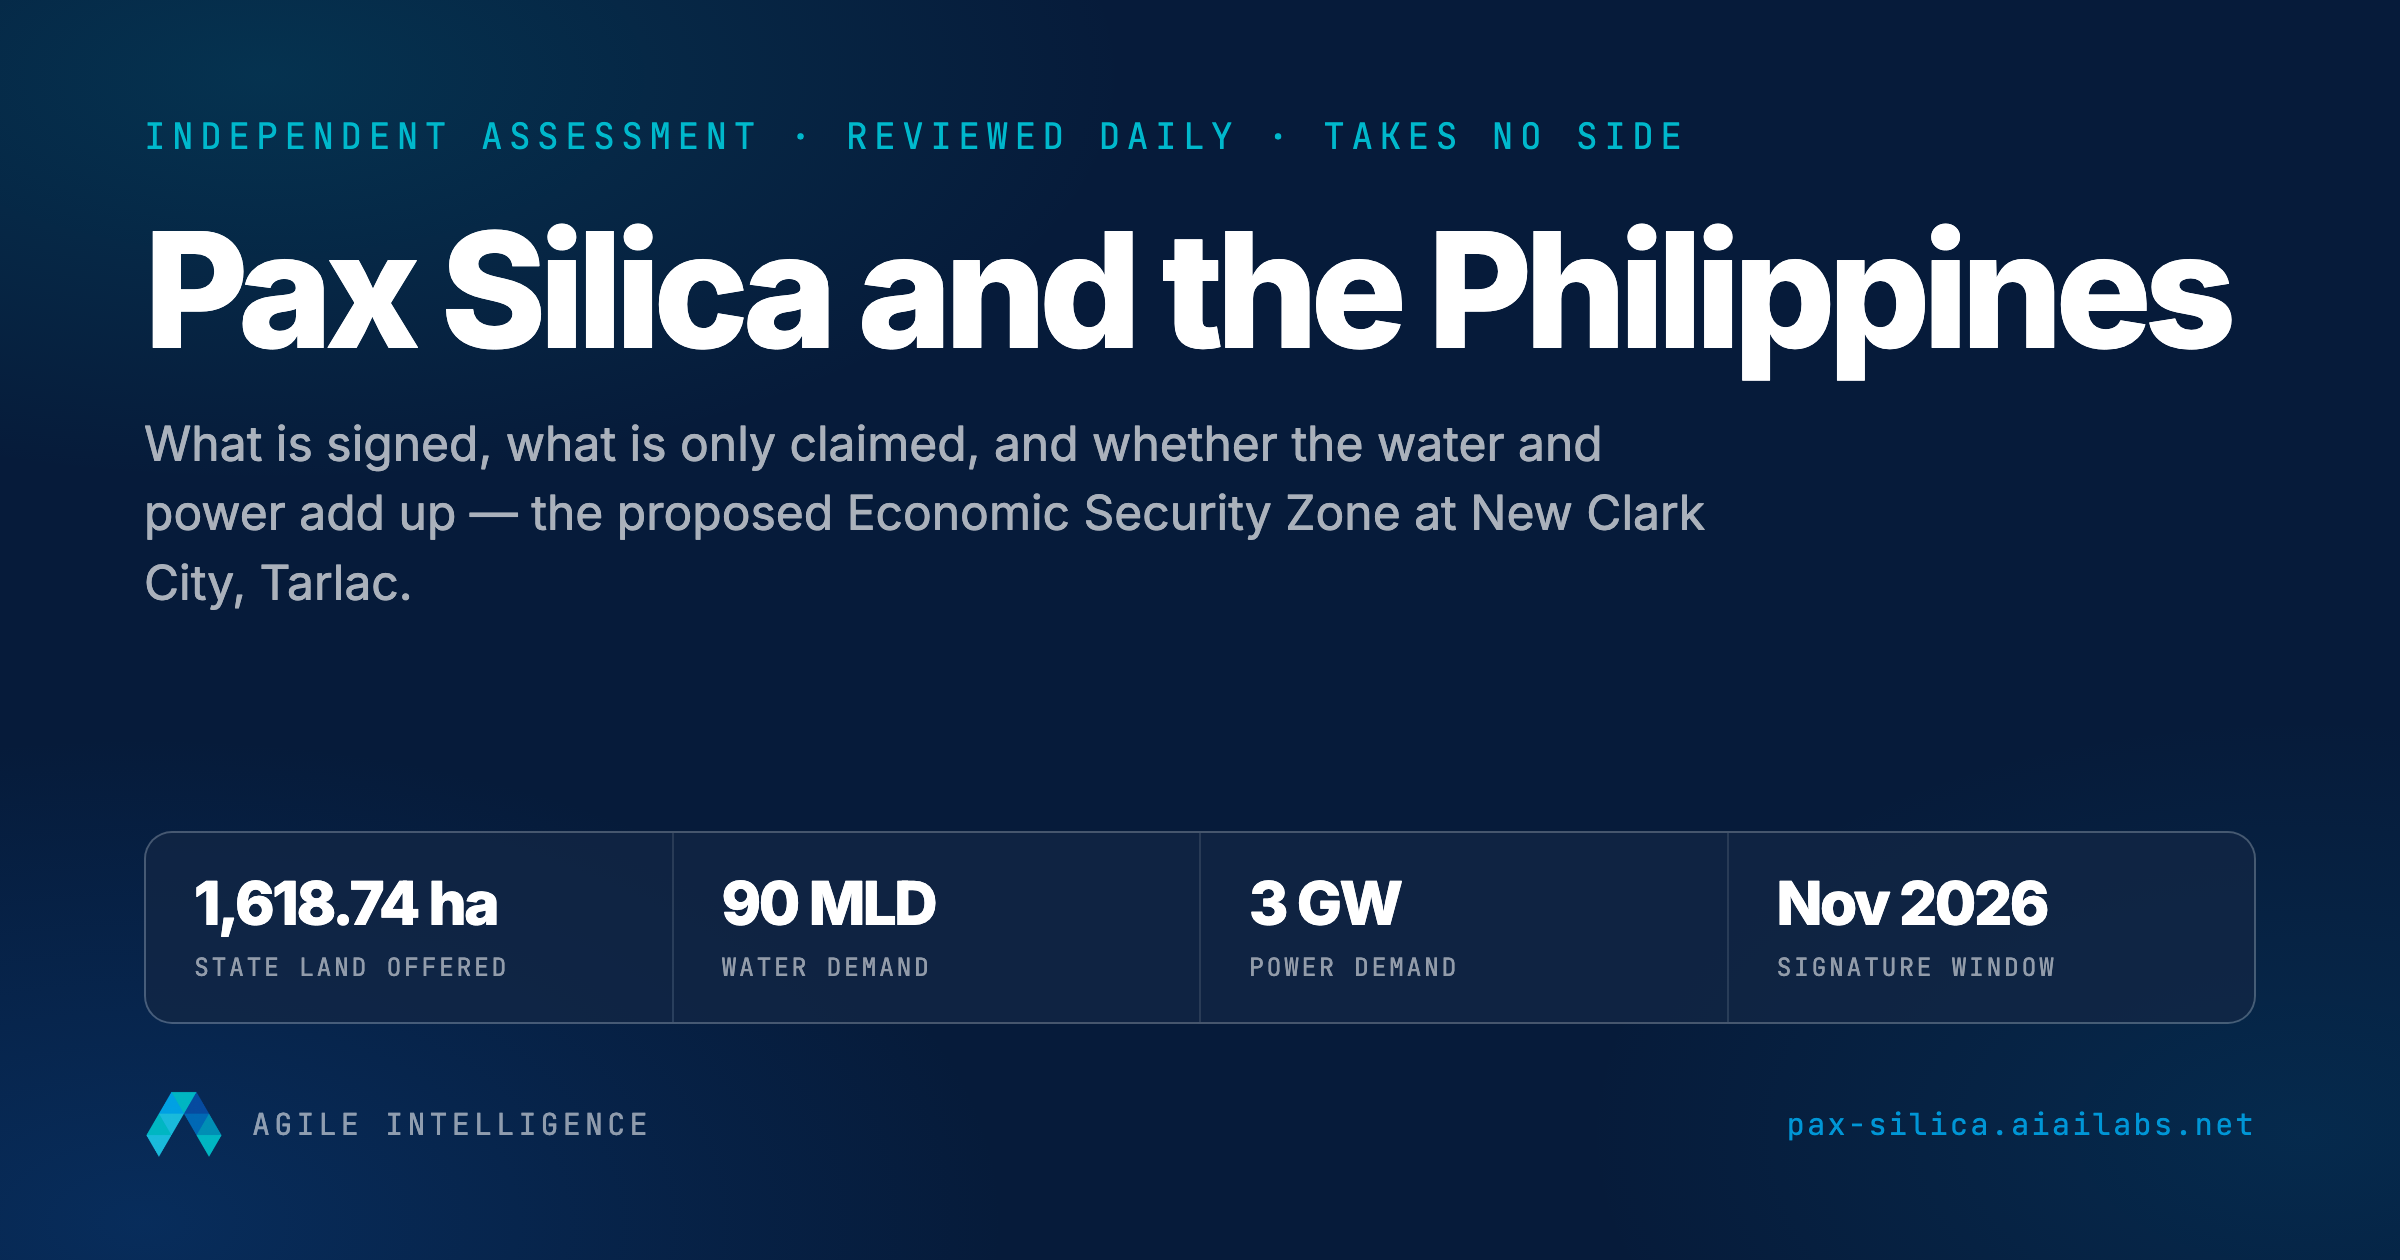
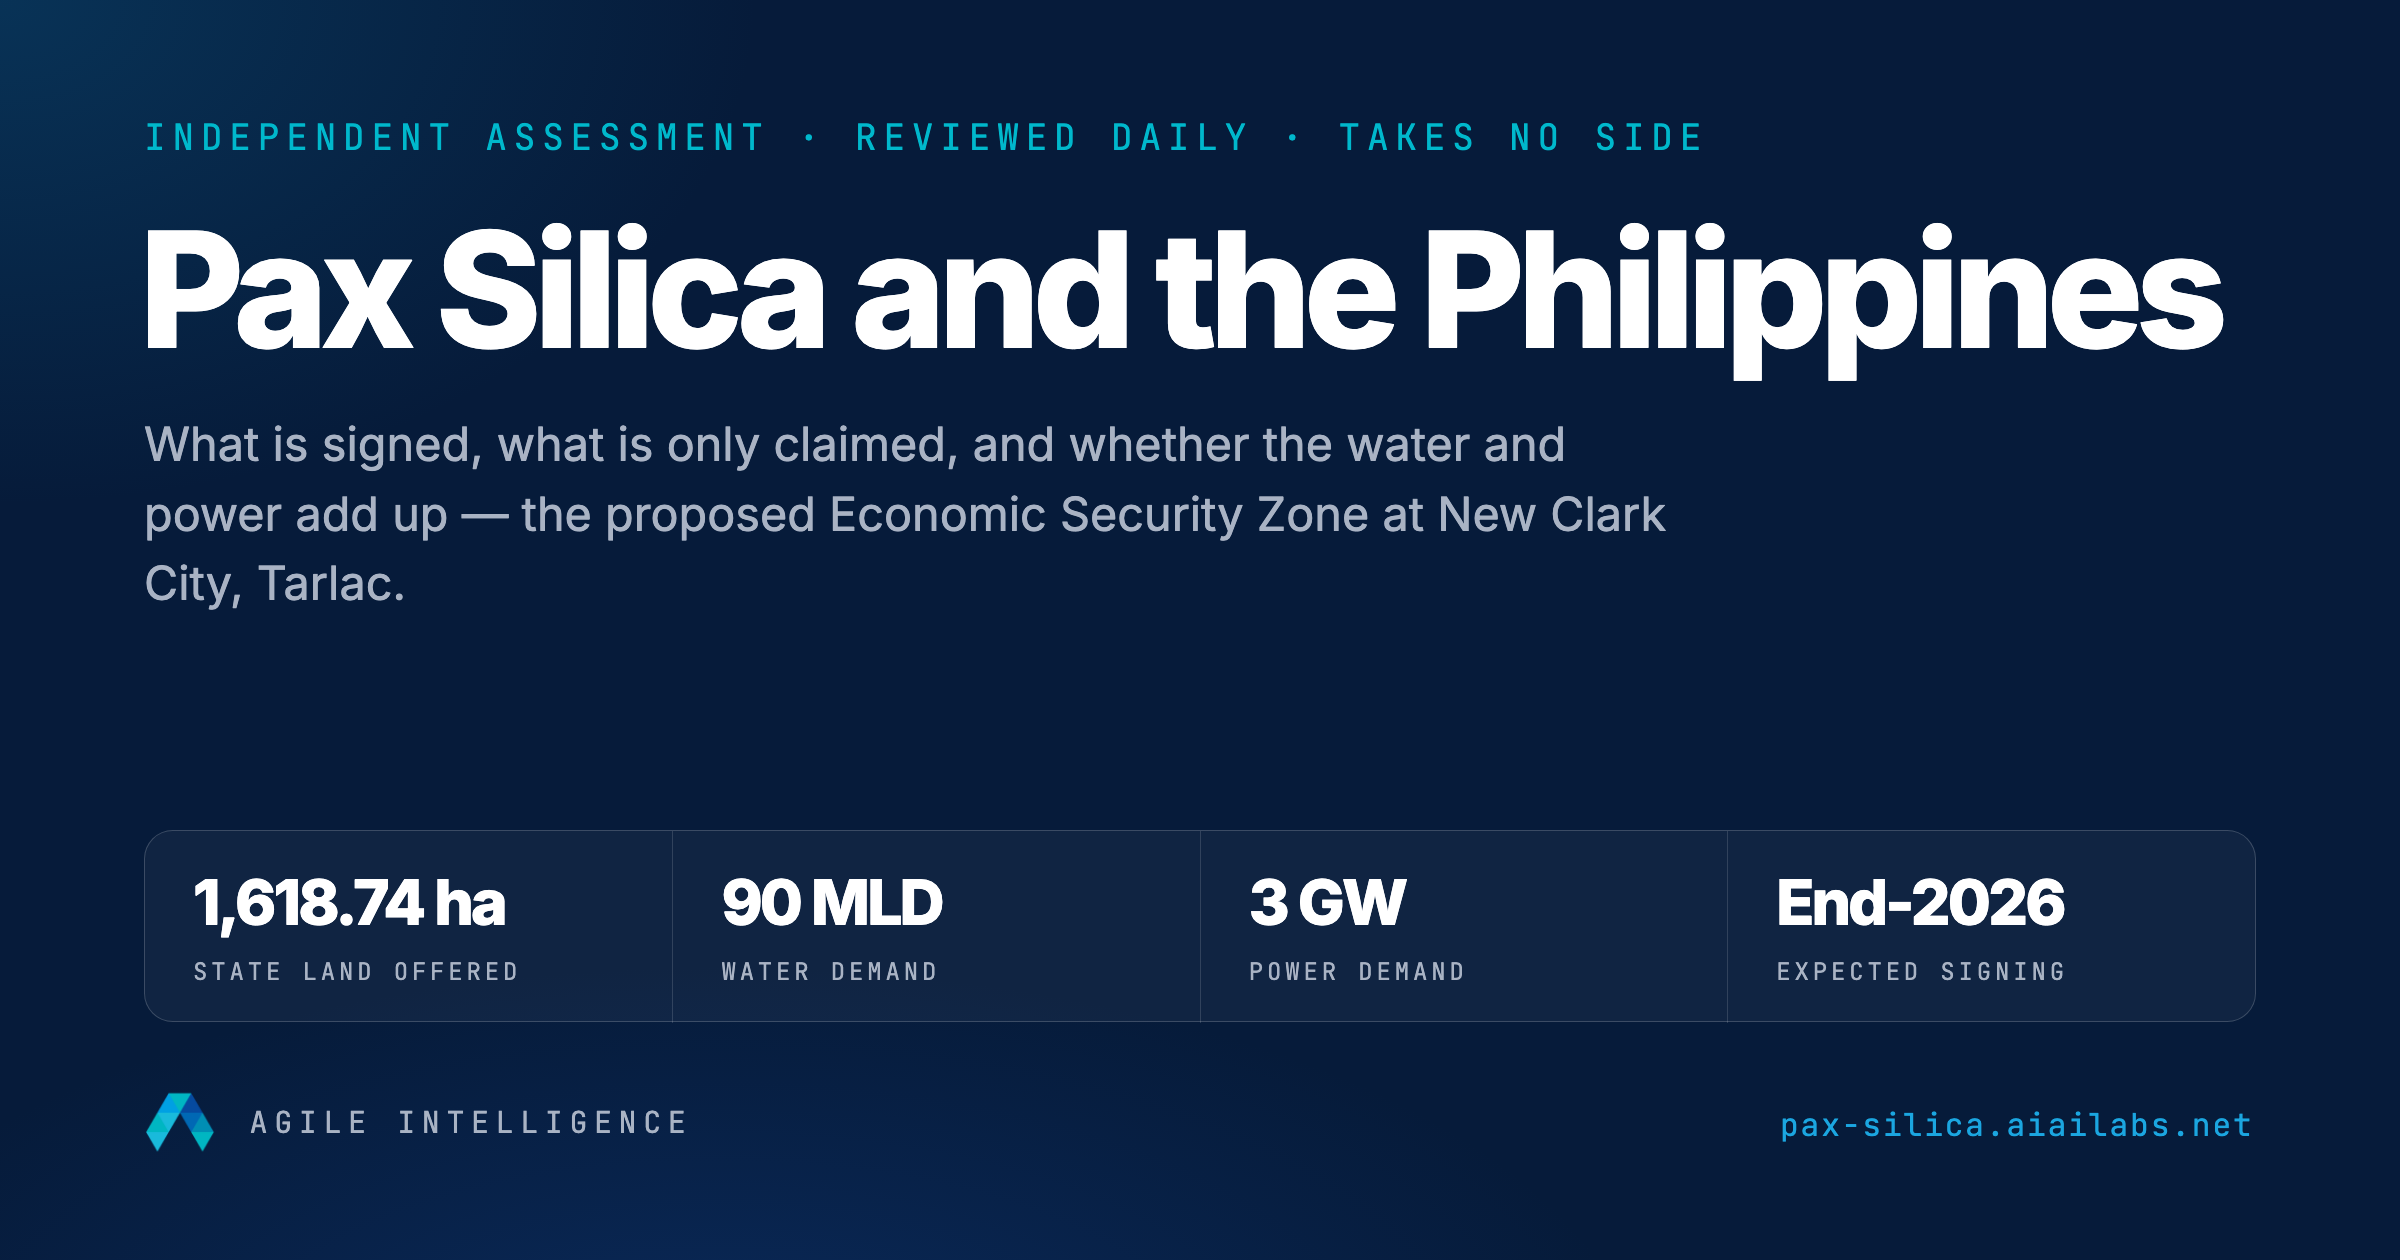
Share card re-rendered: fourth figure "End-2026 · expected signing" (was "Nov 2026 · signature window")
assets/og-card.png rebuilt at 2400x1260 from DESIGN.md tokens to match the 7 Aug card; only
the fourth figure changes. Source kept in the research repo at tools/og-card/card.html.
DESIGN.md's countdown component now counts to the end of BCDA's expected window (31 Dec 2026).
Both paths are outside the automated lane's deploy allowlist; published under Eric's direction,
15 Oct 2026.

diff --git a/DESIGN.md b/DESIGN.md
@@ -136,7 +136,7 @@ Desktop-first, verified to 390px. No media-query breakpoint soup — the layout 
 
 **Data table.** Mono uppercase header on `#F8FAFB`, 1px row hairlines, tabular figures, right-aligned numerics, horizontal scroll on narrow.
 
-**Countdown.** Mono tabular digits, unit labels beneath, navy field. Counts to the November decision point.
+**Countdown.** Mono tabular digits, unit labels beneath, navy field. Counts to the end of BCDA's expected signing window, 31 December 2026 (re-anchored from November on 14 October 2026).
 
 **Explainer popup.** Navy frame, radial cyan/blue glows, 3px radial-dot grain at `mix-blend-mode:overlay` / `0.45`. Rounded 20px in popup mode, full-bleed when expanded. Transport bar: play/pause, restart, scrubber, elapsed/total mono, chapter rail (hidden in popup mode), subtitle track.
 
